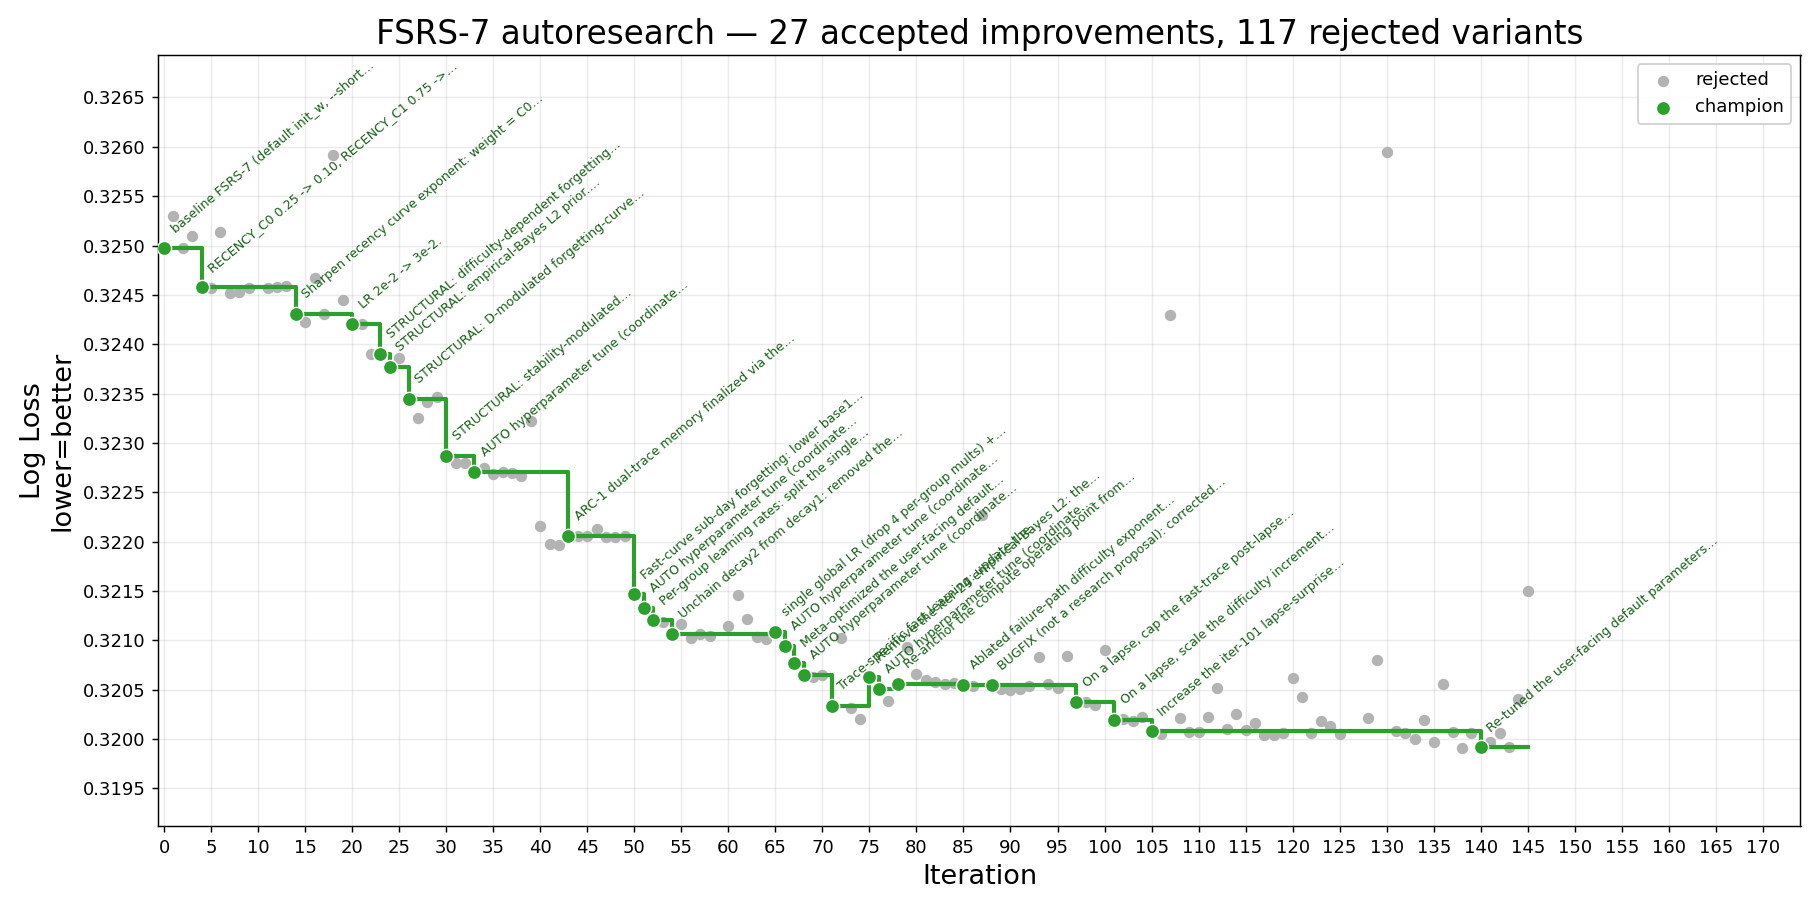
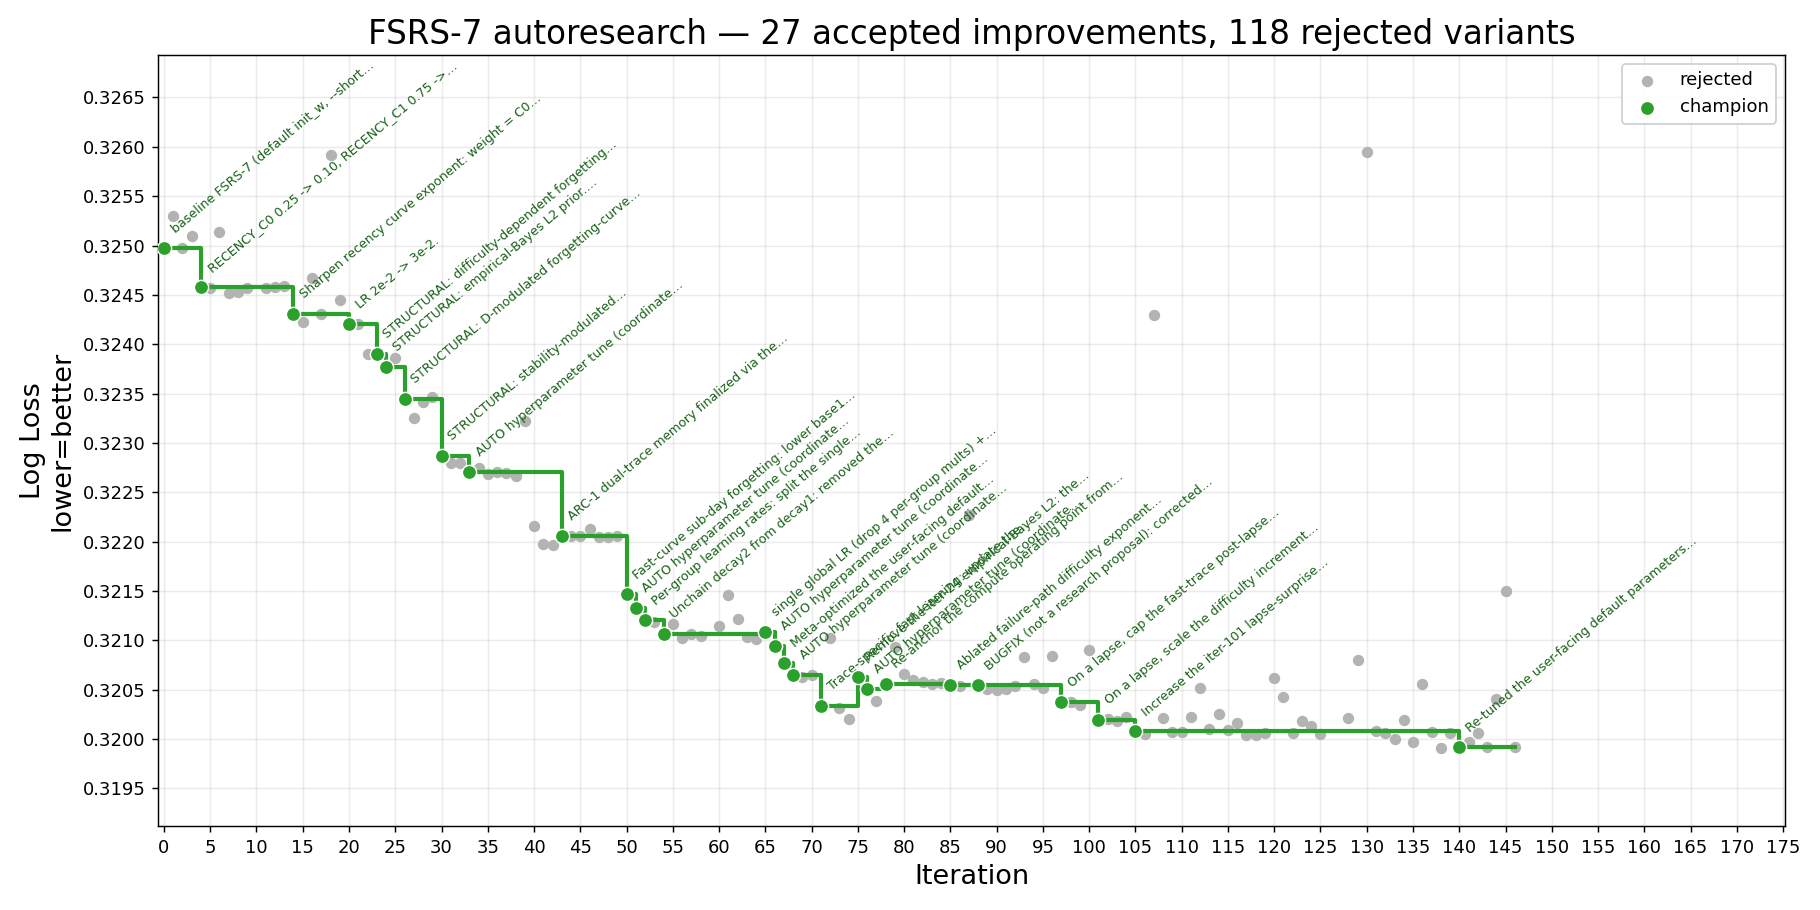
iter-146 (rejected): one-sided high-R quadratic on the lapse-surprise
delta_d *= 1 + (R-0.9) + 10*max(0,R-0.9)^2 -- load the diagnostic high-R lapse
tail harder. by_user 0.31991476 -> 0.31991675 (FLAT, -2.0e-6, noise). Inert
because high-R lapses are sparse; the linear term already covers the bulk. Maps
the lapse-R channel as tuned/saturated. First R-into-D bet (user steer). Next:
the Good rating (60% of reviews) carries zero D-signal today. Reverted.

diff --git a/result/history.md b/result/history.md
@@ -1,6 +1,6 @@
 # FSRS-7 autoresearch — iteration history
 
-_145 record(s). Generated from `history.jsonl` — do not edit by hand._
+_146 record(s). Generated from `history.jsonl` — do not edit by hand._
 
 | # | Time (UTC) | Thresh. | LL before | LL after | Δ LL | Cx before | Cx after | Δ Cx % | Status | Summary |
 |--:|---|---:|---:|---:|---:|---:|---:|---:|---|---|
@@ -149,3 +149,4 @@ _145 record(s). Generated from `history.jsonl` — do not edit by hand._
 | 143 | 2026-06-06T11:56:31 | 0.0001 | 0.31991 | 0.31992 | -0.00000 | 16,932 | 16,932 | +0.00% | rejected | Widen the next_d_mult (w[6]) upper clamp from 4.0 to 7.0 (CUDA MAX, Python clipper, diagnostics bounds). |
 | 144 | 2026-06-06T12:07:13 | 0.0001 | 0.31991 | 0.32041 | -0.00050 | 16,932 | 16,943 | +0.06% | rejected | Change the D->S success coupling shape from linear (11-d) to 6*((11-d)/6)^1.5 (super-linear, anchored at d=5). |
 | 145 | 2026-06-06T12:22:26 | 0.0001 | 0.31991 | 0.32150 | -0.00159 | 16,932 | 17,001 | +0.41% | rejected | On a lapse, scale post-lapse long stability by d^(-0.5*exp(-s_long/7)) -- chronic-re-lapser penalty gated by low pre-lapse stability. |
+| 146 | 2026-06-06T12:33:09 | 0.0001 | 0.31991 | 0.31992 | -0.00000 | 16,932 | 16,951 | +0.11% | rejected | Add a one-sided high-R quadratic to the lapse-surprise: delta_d *= 1 + (R-0.9) + 10*max(0, R-0.9)^2. |
